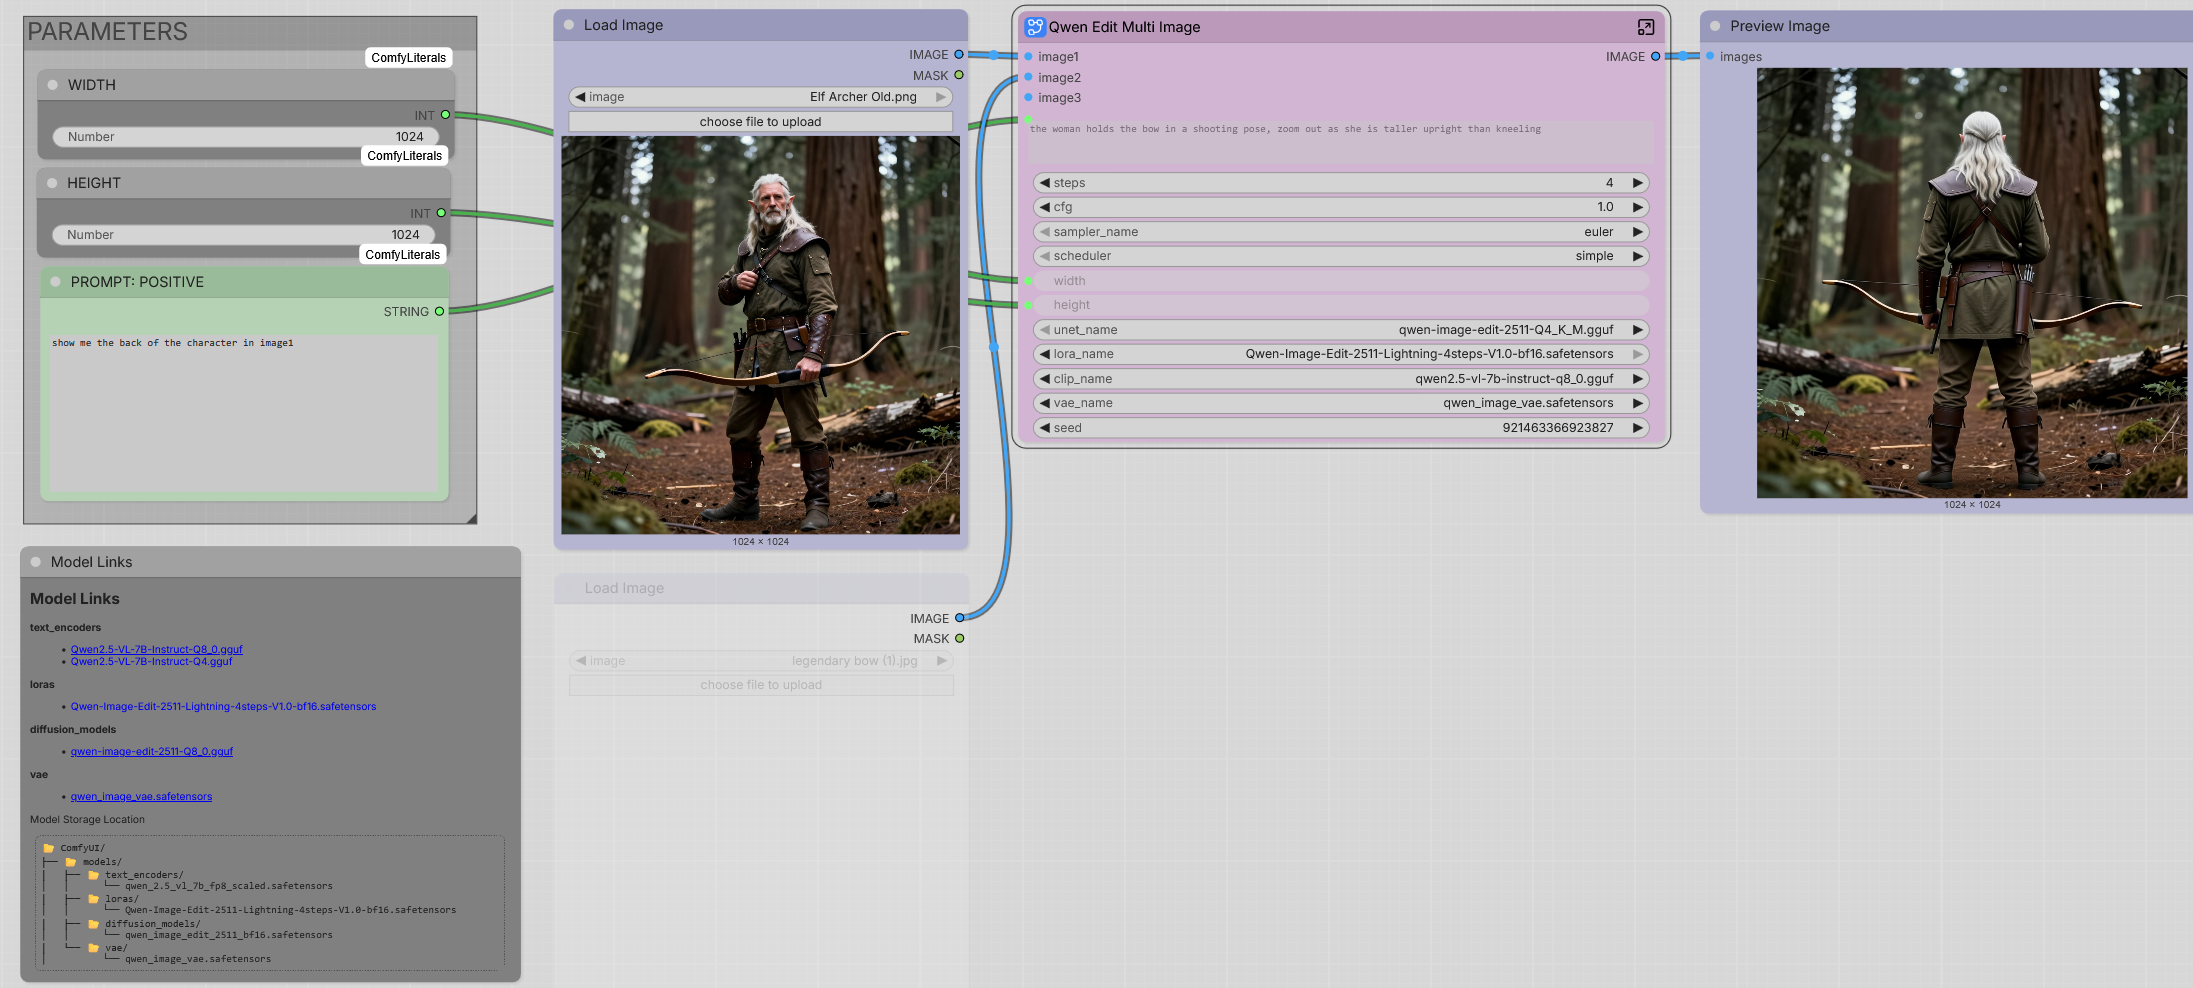
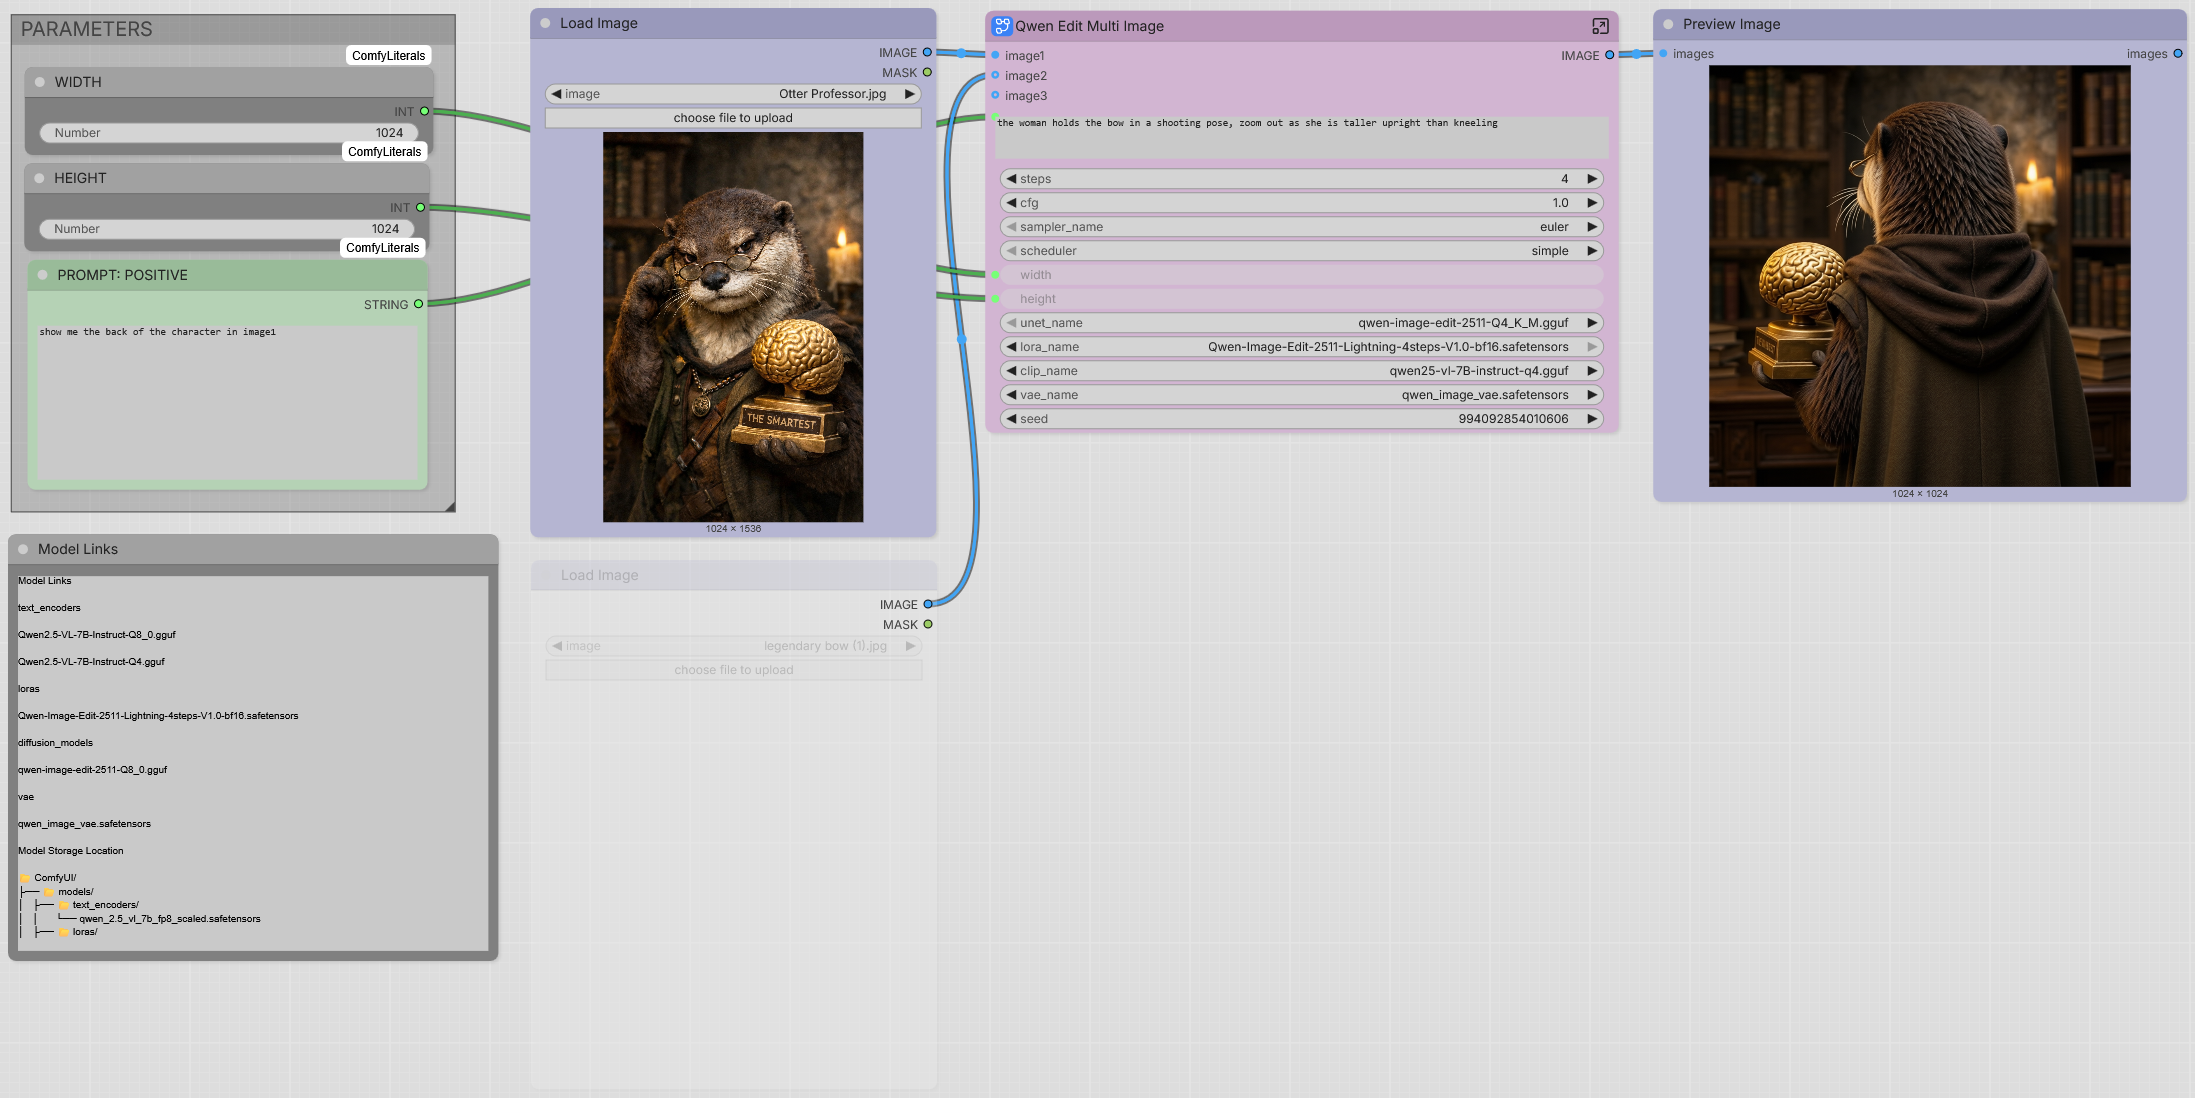
tried with cross attention, seems not to crash

diff --git a/logs/2026-07-26c-qwen-edit.md b/logs/2026-07-26c-qwen-edit.md
@@ -1,0 +1,77 @@
+# Fix
+
+I'm using another gguf nodem for the rest it works fine
+
+```cmd
+set COMFYUI_ENABLE_MIOPEN=1
+set MIOPEN_FIND_MODE=2
+.\python_embeded\python.exe -s ComfyUI\main.py --windows-standalone-build --disable-smart-memory --disable-api-nodes
+```
+
+```cmd
+[INFO] got prompt
+gguf qtypes: Q6_K (29), F32 (141), Q4_K (169)
+Using mmproj 'qwen2.5-vl-7b-instruct-q8_0-mmproj-fp16.gguf' for 'qwen25-vl-7b-instruct-q4.gguf'.
+gguf qtypes: F32 (291), F16 (228)
+[INFO] CLIP/text encoder model load device: cuda:0, offload device: cpu, current: cpu, dtype: torch.float16
+[INFO] Requested to load WanVAE
+[INFO] loaded completely; 20269.32 MB usable, 242.03 MB loaded, full load: True
+[INFO] Requested to load QwenImageTEModel_
+[INFO] loaded completely; 22468.61 MB usable, 7114.77 MB loaded, full load: True
+[INFO] Requested to load QwenImage
+[INFO] loaded completely; 22102.28 MB usable, 12738.98 MB loaded, full load: True
+100%|████████████████████████████████████████████████████████████████████████████████████| 4/4 [00:28<00:00,  7.20s/it]
+[INFO] Requested to load WanVAE
+[INFO] loaded completely; 18883.56 MB usable, 242.03 MB loaded, full load: True
+[INFO] Prompt executed in 51.18 seconds
+[INFO] got prompt
+[INFO] Requested to load QwenImage
+[INFO] loaded completely; 22102.28 MB usable, 12738.98 MB loaded, full load: True
+100%|████████████████████████████████████████████████████████████████████████████████████| 4/4 [00:25<00:00,  6.40s/it]
+[INFO] Requested to load WanVAE
+[INFO] loaded completely; 18883.56 MB usable, 242.03 MB loaded, full load: True
+[INFO] Prompt executed in 32.56 seconds
+```
+
+# --use-pytorch-cross-attention
+
+```cmd
+set COMFYUI_ENABLE_MIOPEN=1
+set MIOPEN_FIND_MODE=2
+.\python_embeded\python.exe -s ComfyUI\main.py --windows-standalone-build --disable-smart-memory --disable-api-nodes --use-pytorch-cross-attention
+```
+
+```cmd
+[INFO] got prompt
+[INFO] Using split attention in VAE
+[INFO] Using split attention in VAE
+[INFO] VAE load device: cuda:0, offload device: cpu, dtype: torch.bfloat16
+F:\ComfyUI_windows_portable_amd\ComfyUI\custom_nodes\gguf\pig.py:365: UserWarning: The given NumPy array is not writable, and PyTorch does not support non-writable tensors. This means writing to this tensor will result in undefined behavior. You may want to copy the array to protect its data or make it writable before converting it to a tensor. This type of warning will be suppressed for the rest of this program. (Triggered internally at C:\b\pytorch\torch\csrc\utils\tensor_numpy.cpp:212.)
+  torch_tensor = torch.from_numpy(tensor.data)
+gguf qtypes: Q6_K (29), F32 (141), Q4_K (169)
+Using mmproj 'qwen2.5-vl-7b-instruct-q8_0-mmproj-fp16.gguf' for 'qwen25-vl-7b-instruct-q4.gguf'.
+gguf qtypes: F32 (291), F16 (228)
+[INFO] CLIP/text encoder model load device: cuda:0, offload device: cpu, current: cpu, dtype: torch.float16
+[INFO] Requested to load WanVAE
+[INFO] loaded completely; 20692.79 MB usable, 242.03 MB loaded, full load: True
+[INFO] Requested to load QwenImageTEModel_
+[INFO] loaded completely; 22648.49 MB usable, 7114.77 MB loaded, full load: True
+F:\ComfyUI_windows_portable_amd\ComfyUI\comfy\ops.py:58: UserWarning: Using AOTriton backend for Efficient Attention forward... (Triggered internally at C:/b/pytorch/aten/src/ATen/native/transformers/hip/attention.hip:1452.)
+  return torch.nn.functional.scaled_dot_product_attention(q, k, v, *args, **kwargs)
+gguf qtypes: F32 (1088), BF16 (6), Q6_K (258), Q8_0 (2), Q5_K (20), Q4_K (560)
+[INFO] model weight dtype torch.bfloat16, manual cast: None
+[INFO] model_type FLUX
+[INFO] Requested to load QwenImage
+[INFO] loaded completely; 22030.90 MB usable, 12738.98 MB loaded, full load: True
+100%|████████████████████████████████████████████████████████████████████████████████████| 4/4 [00:25<00:00,  6.50s/it]
+[INFO] Requested to load WanVAE
+[INFO] loaded completely; 18799.56 MB usable, 242.03 MB loaded, full load: True
+[INFO] Prompt executed in 49.07 seconds
+[INFO] got prompt
+[INFO] Requested to load QwenImage
+[INFO] loaded completely; 22018.28 MB usable, 12738.98 MB loaded, full load: True
+100%|████████████████████████████████████████████████████████████████████████████████████| 4/4 [00:26<00:00,  6.60s/it]
+[INFO] Requested to load WanVAE
+[INFO] loaded completely; 18799.56 MB usable, 242.03 MB loaded, full load: True
+[INFO] Prompt executed in 34.07 seconds
+```

diff --git a/logs/2026-07-26b-dynamic-memory-flag.md b/logs/2026-07-26b-dynamic-memory-flag.md
@@ -179,4 +179,11 @@ F:\ComfyUI_windows_portable_amd\ComfyUI\comfy\ops.py:60: UserWarning: Using AOTr
 
 ![](/logs/Screenshot%202026-07-26%20113516%20krea2%20mimode%202.png)
 
+# Conclusions
 
+| NOTE | First Run [s] | Second Run [s] | Third Run with prompt change [s] | VRAM | Driver Crash? |
+|-|-|-|-|-|-|
+| --enable-dynamic-vram | 30.82 | 27.57 | fail | 24GB+ | 3° run |
+|  | 34.27 | fail | fail | 24GB+ | 2° run |
+|  --disable-smart-memory  | 83.60 | 43.33| 38.54 | 18.9GB | no crash |
+| MIOPEN_FIND_MODE=2  --disable-smart-memory  | 38.61 | 28.37 | 30.73 | 18.9GB |  no crash |
